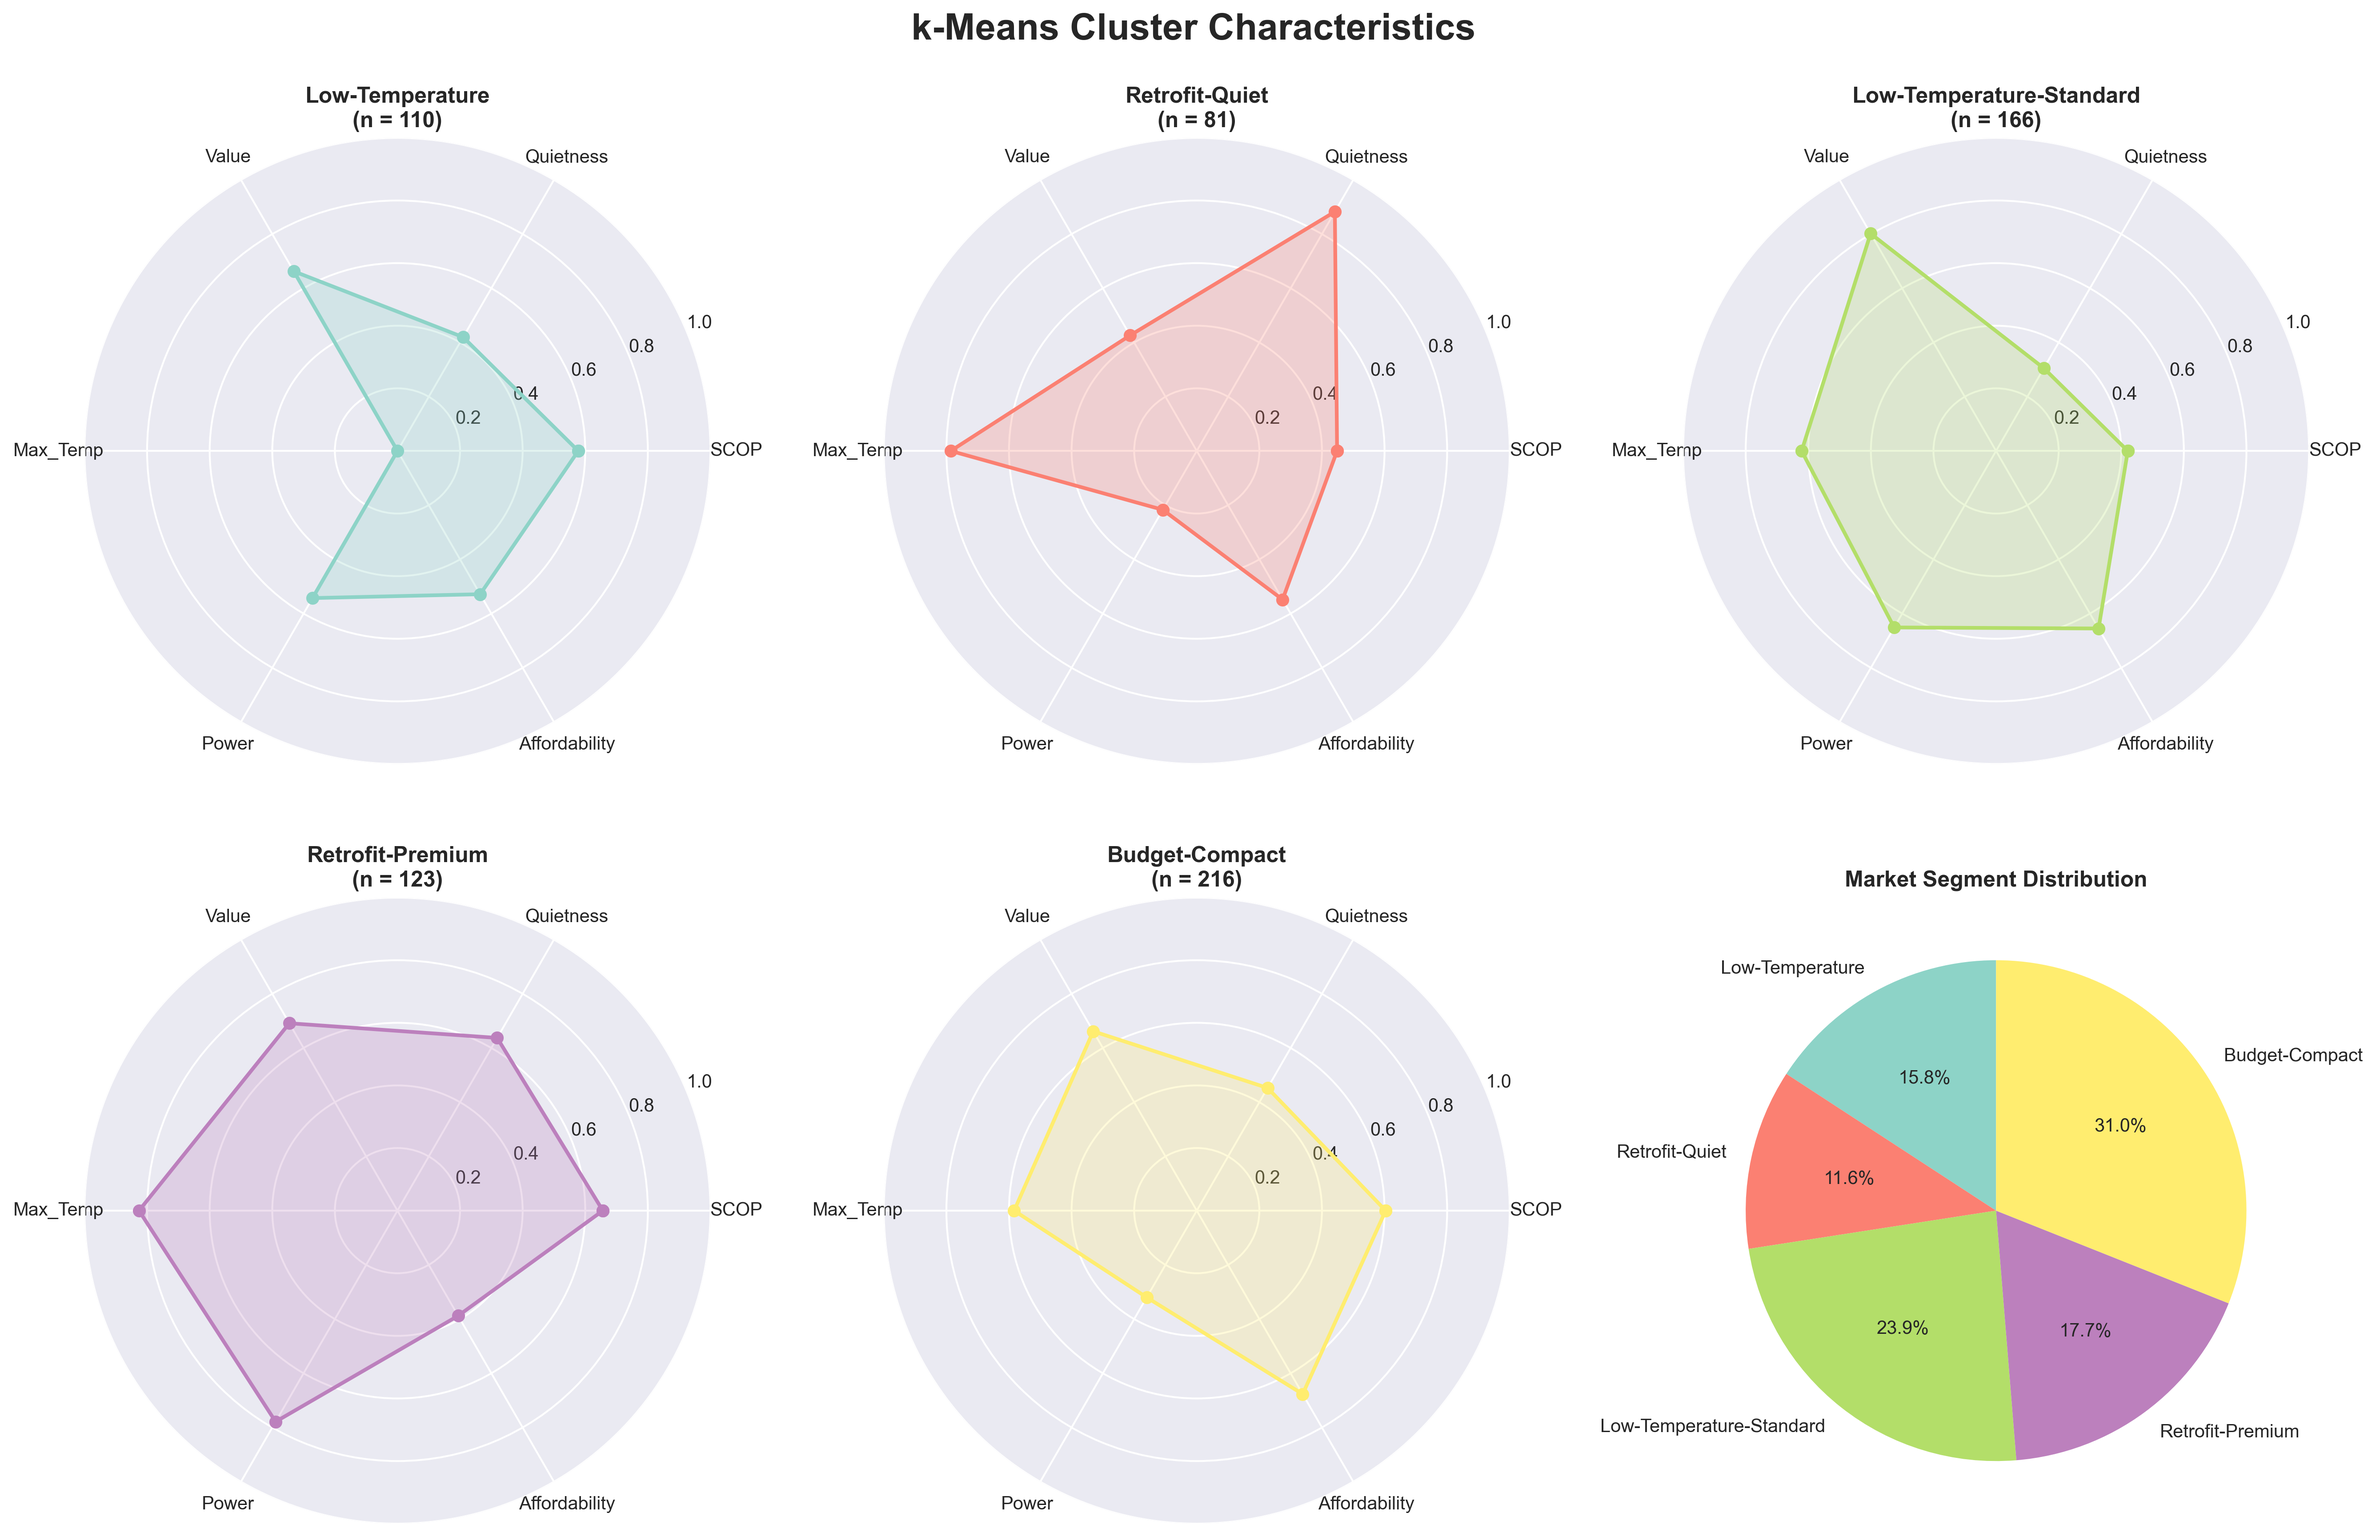
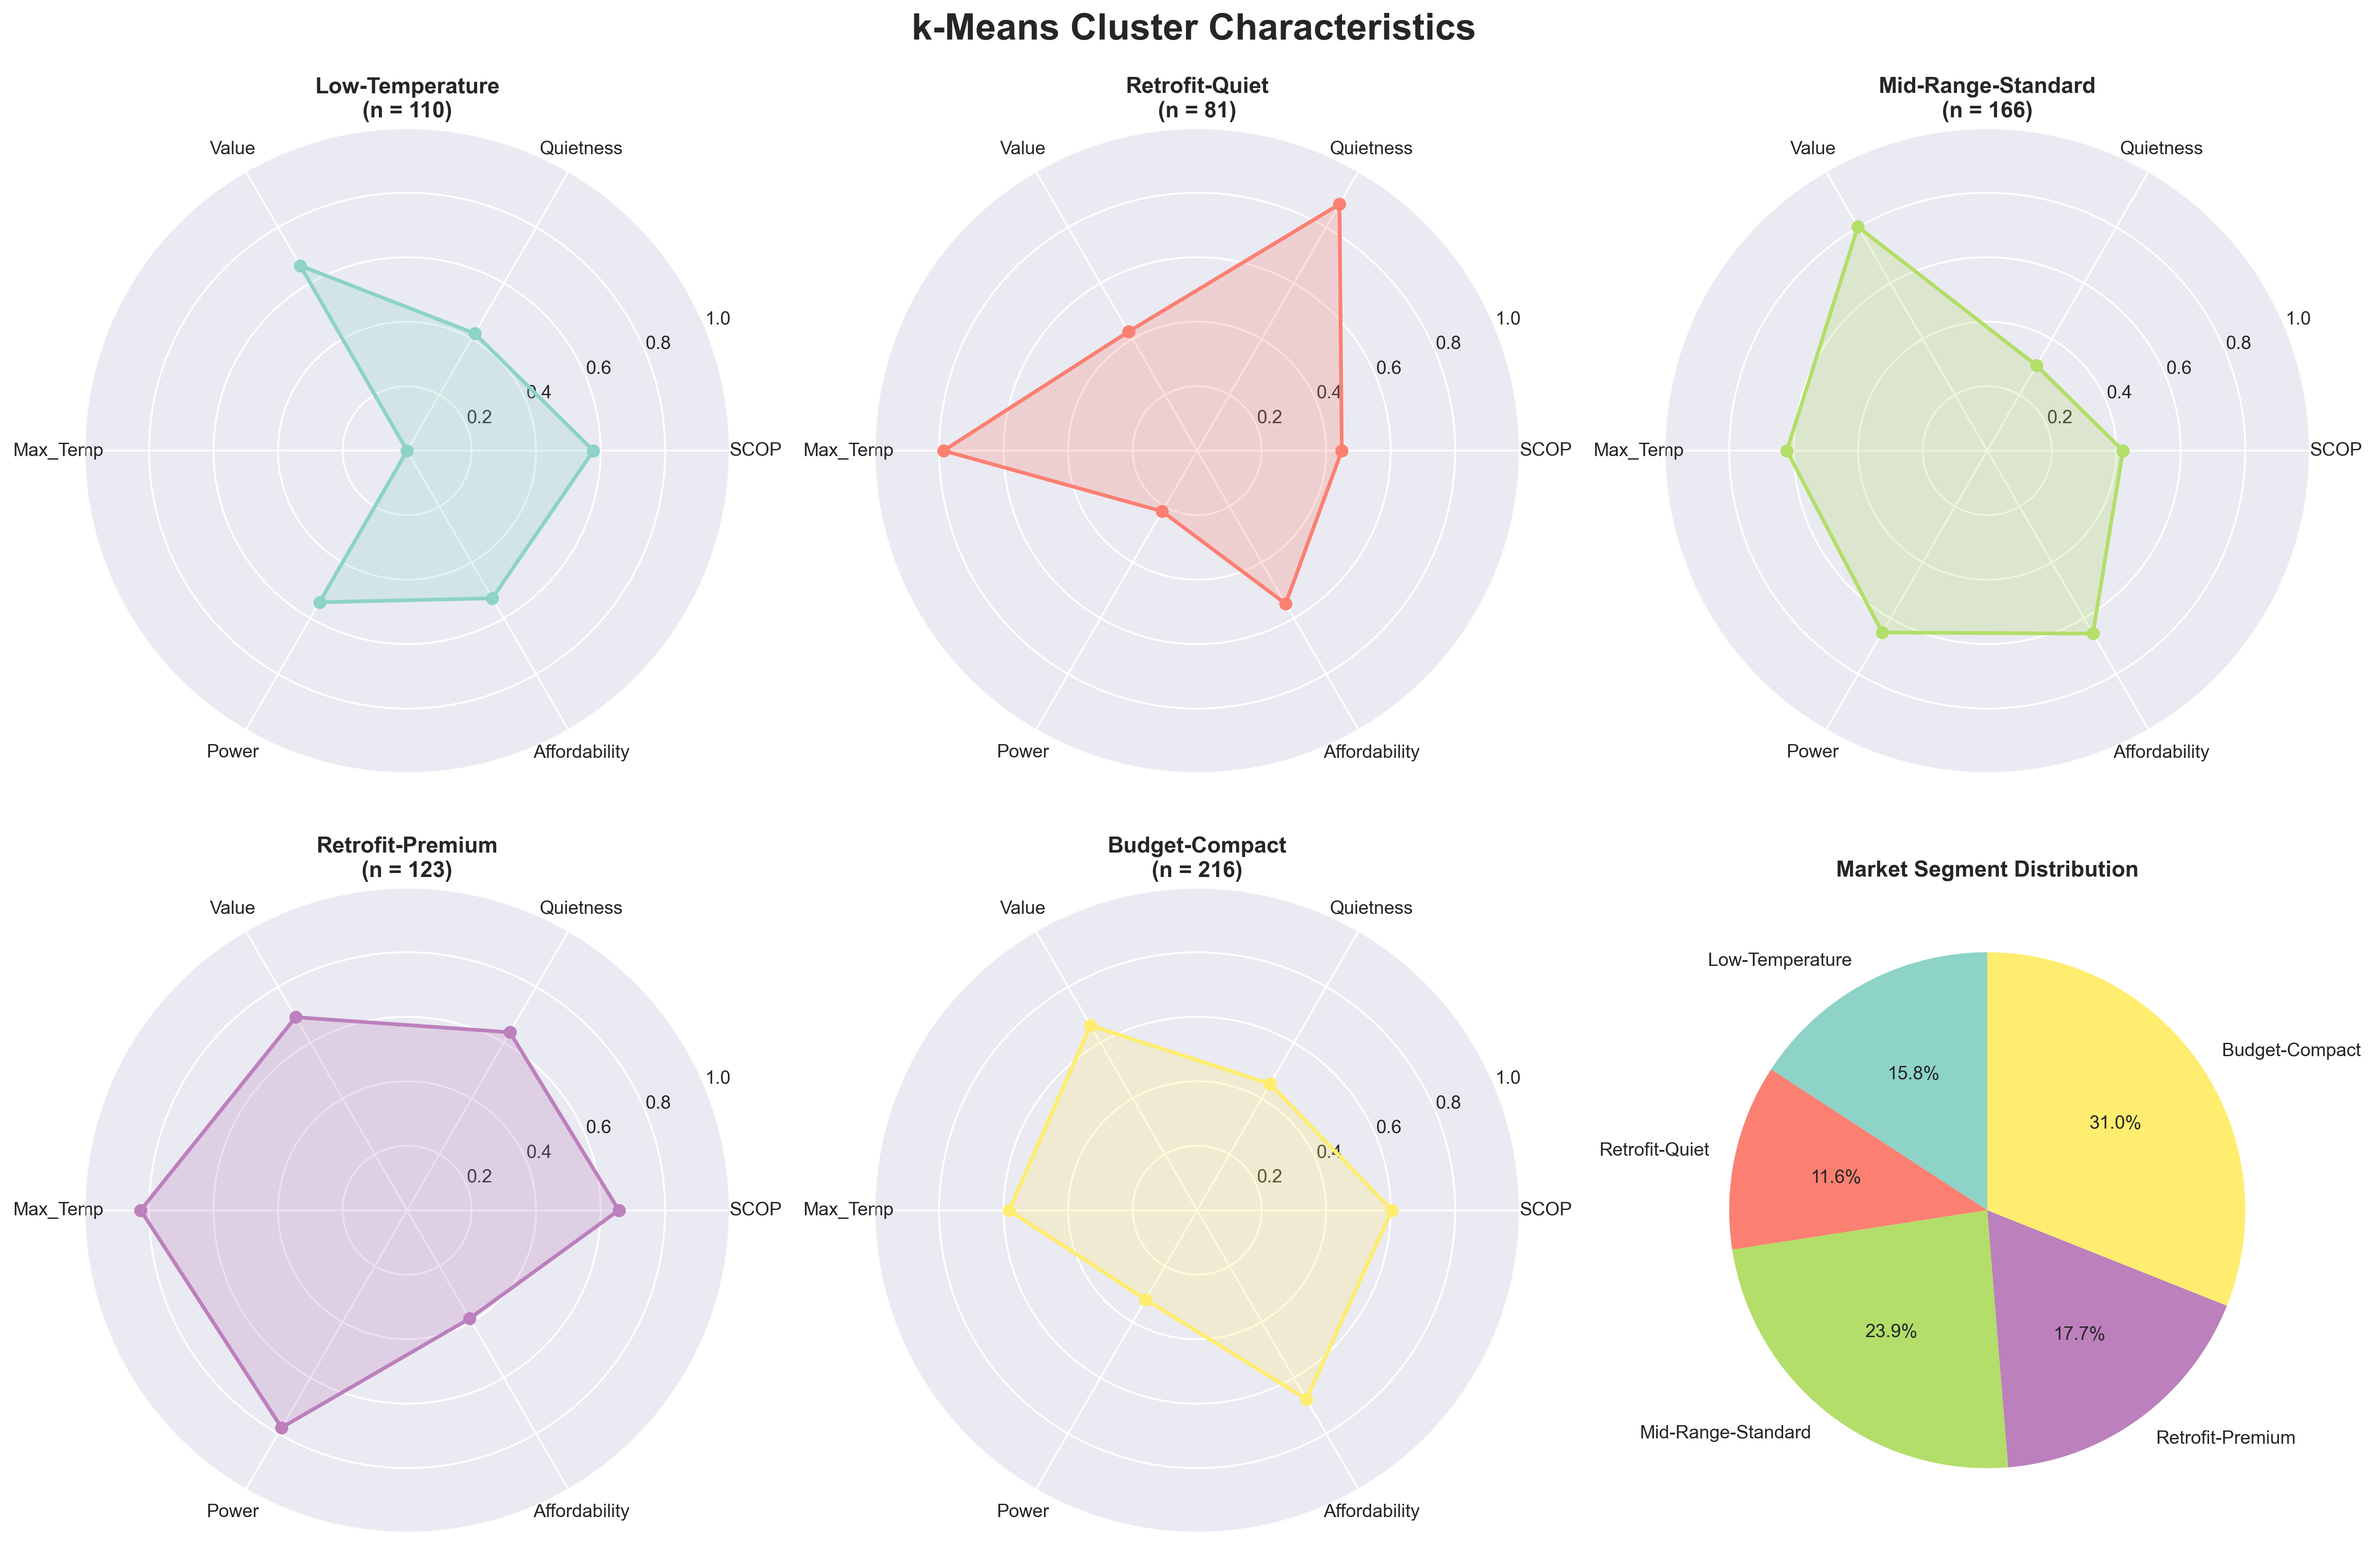
Update cluster analysis: Change 'Mid-Range' to 'Low-Temperature' in visualizations and add observation counts to plots

diff --git a/Pricescraper/6_analysis/cluster_market_personalities.py b/Pricescraper/6_analysis/cluster_market_personalities.py
@@ -318,7 +318,7 @@ def determine_cluster_archetype(profile, df_all):
     HIGH_THRESHOLD = 0.67
     
     # Categorize characteristics
-    price_cat = "Budget" if price_pct < LOW_THRESHOLD else ("Premium" if price_pct > HIGH_THRESHOLD else "Low-Temperature")
+    price_cat = "Budget" if price_pct < LOW_THRESHOLD else ("Premium" if price_pct > HIGH_THRESHOLD else "Mid-Range")
     efficiency_cat = "High-Efficiency" if scop_pct > HIGH_THRESHOLD else ("Standard" if scop_pct > LOW_THRESHOLD else "Basic")
     # Fix noise categorization: low noise_pct = quiet (below average noise), high noise_pct = noisy (above average noise)
     noise_cat = "Quiet" if noise_pct < LOW_THRESHOLD else ("Standard" if noise_pct < HIGH_THRESHOLD else "Noisy")
@@ -337,8 +337,8 @@ def determine_cluster_archetype(profile, df_all):
         primary_traits.append("Budget")
     elif price_cat == "Premium":
         primary_traits.append("Premium")
-    elif price_cat == "Low-Temperature" and len(primary_traits) == 0:
-        primary_traits.append("Low-Temperature")
+    elif price_cat == "Mid-Range" and len(primary_traits) == 0:
+        primary_traits.append("Mid-Range")
     
     # PRIORITY 3: Performance characteristics
     if efficiency_cat == "High-Efficiency":
@@ -389,10 +389,10 @@ def determine_cluster_archetype(profile, df_all):
             archetype = "Compact-Efficient"
         elif "Value" in primary_traits and "Efficient" in primary_traits:
             archetype = "Value-Efficient"
-        elif "Low-Temperature" in primary_traits and "Efficient" in primary_traits:
+        elif "Mid-Range" in primary_traits and "Efficient" in primary_traits:
             archetype = "Standard-Efficient"
-        elif "Low-Temperature" in primary_traits:
-            archetype = "Low-Temperature-Standard"
+        elif "Mid-Range" in primary_traits:
+            archetype = "Mid-Range-Standard"
         else:
             # Default to combining top 2 traits
             archetype = "-".join(primary_traits[:2])
@@ -457,13 +457,9 @@ def generate_buyer_persona(profile, cluster_name):
             "description": "Mainstream market seeking reliable performance with good efficiency at fair prices",
             "tags": ["mainstream residential", "balanced buyers", "standard homes", "practical choice", "middle market"]
         },
-        "Low-Temperature-Standard": {
+        "Mid-Range-Standard": {
             "description": "Average market segment seeking reliable, balanced performance across all metrics",
             "tags": ["mainstream market", "standard residential", "balanced requirements", "typical homeowners"]
-        },
-        "Low-Temperature": {
-            "description": "Heat pumps designed for low-temperature heating systems with standard performance characteristics",
-            "tags": ["low-temperature systems", "standard heating", "basic requirements", "general residential"]
         },
         "Standard": {
             "description": "Mainstream residential market seeking reliable, balanced performance",
@@ -494,6 +490,13 @@ def create_cluster_visualizations(df_clustered, X_scaled, feature_names, cluster
     
     n_clusters = df_clustered['Cluster'].nunique()
     
+    # Helper function to get display name for clusters
+    def get_display_name(cluster_name):
+        """Map cluster names to display names for plots"""
+        if cluster_name == "Mid-Range":
+            return "Low-Temperature"
+        return cluster_name
+    
     # 1. PCA Visualization
     plt.figure(figsize=(12, 10))
     
@@ -506,8 +509,9 @@ def create_cluster_visualizations(df_clustered, X_scaled, feature_names, cluster
     for i in range(n_clusters):
         mask = df_clustered['Cluster'] == i
         cluster_name = cluster_names.get(i, f"Cluster {i}")
+        display_name = get_display_name(cluster_name)
         plt.scatter(X_pca[mask, 0], X_pca[mask, 1], 
-                   c=[colors[i]], label=f"{cluster_name} (n={mask.sum()})", 
+                   c=[colors[i]], label=f"{display_name} (n={mask.sum()})", 
                    alpha=0.7, s=50)
     
     plt.xlabel(f'First Principal Component ({pca.explained_variance_ratio_[0]:.1%} variance)', fontsize=14)
@@ -543,8 +547,9 @@ def create_cluster_visualizations(df_clustered, X_scaled, feature_names, cluster
             mask = df_clustered['Cluster'] == i
             cluster_data.append(feature_data[mask])
             cluster_name = cluster_names.get(i, f"C{i}")
+            display_name = get_display_name(cluster_name)
             n_obs = mask.sum()
-            cluster_labels.append(f"{cluster_name}\n(n={n_obs})")
+            cluster_labels.append(f"{display_name}\n(n={n_obs})")
         
         bp = ax.boxplot(cluster_data, labels=cluster_labels, patch_artist=True)
         
@@ -572,8 +577,9 @@ def create_cluster_visualizations(df_clustered, X_scaled, feature_names, cluster
         cluster_labels_with_counts = []
         for i in range(n_clusters):
             cluster_name = cluster_names.get(i, f"C{i}")
+            display_name = get_display_name(cluster_name)
             n_obs = (df_clustered['Cluster'] == i).sum()
-            cluster_labels_with_counts.append(f"{cluster_name}\n(n={n_obs})")
+            cluster_labels_with_counts.append(f"{display_name}\n(n={n_obs})")
         
         temp_df = pd.DataFrame({
             'Value': feature_data,
@@ -587,8 +593,9 @@ def create_cluster_visualizations(df_clustered, X_scaled, feature_names, cluster
     color_palette = [colors[i] for i in range(n_clusters)]
     for i in range(n_clusters):
         cluster_name = cluster_names.get(i, f"C{i}")
+        display_name = get_display_name(cluster_name)
         n_obs = (df_clustered['Cluster'] == i).sum()
-        cluster_order.append(f"{cluster_name}\n(n={n_obs})")
+        cluster_order.append(f"{display_name}\n(n={n_obs})")
     
     axes_flat = axes.flatten()
     for idx, (feature_name, _) in enumerate(original_features.items()):
@@ -622,6 +629,7 @@ def create_cluster_visualizations(df_clustered, X_scaled, feature_names, cluster
         
         cluster_data = df_clustered[df_clustered['Cluster'] == cluster_id]
         cluster_name = cluster_names.get(cluster_id, f"Cluster {cluster_id}")
+        display_name = get_display_name(cluster_name)
         
         # Calculate normalized values
         values = []
@@ -672,7 +680,7 @@ def create_cluster_visualizations(df_clustered, X_scaled, feature_names, cluster
         ax.set_xticks(angles[:-1])
         ax.set_xticklabels(radar_features)
         ax.set_ylim(0, 1)
-        ax.set_title(f'{cluster_name}\n(n = {len(cluster_data)})', fontweight='bold')
+        ax.set_title(f'{display_name}\n(n = {len(cluster_data)})', fontweight='bold')
         ax.grid(True)
     
     # Add market segment pie chart in the bottom right cell
@@ -683,7 +691,7 @@ def create_cluster_visualizations(df_clustered, X_scaled, feature_names, cluster
         
         # Create pie chart for market segments
         cluster_sizes = df_clustered['Cluster'].value_counts().sort_index()
-        cluster_labels_pie = [cluster_names.get(i, f"Cluster {i}") for i in cluster_sizes.index]
+        cluster_labels_pie = [get_display_name(cluster_names.get(i, f"Cluster {i}")) for i in cluster_sizes.index]
         
         ax_market.pie(cluster_sizes.values, labels=cluster_labels_pie, autopct='%1.1f%%', 
                      colors=colors[:len(cluster_sizes)], startangle=90)
@@ -703,9 +711,10 @@ def create_cluster_visualizations(df_clustered, X_scaled, feature_names, cluster
     for i in range(n_clusters):
         mask = df_clustered['Cluster'] == i
         cluster_name = cluster_names.get(i, f"Cluster {i}")
+        display_name = get_display_name(cluster_name)
         plt.scatter(df_clustered[mask]['SCOP'], 
                    df_clustered[mask]['Price'], 
-                   c=[colors[i]], label=cluster_name, 
+                   c=[colors[i]], label=display_name, 
                    alpha=0.7, s=60)
     
     plt.xlabel('SCOP (Efficiency)', fontsize=12)
@@ -721,7 +730,7 @@ def create_cluster_visualizations(df_clustered, X_scaled, feature_names, cluster
     plt.figure(figsize=(12, 8))
     
     cluster_sizes = df_clustered['Cluster'].value_counts().sort_index()
-    cluster_labels_pie = [cluster_names.get(i, f"Cluster {i}") for i in cluster_sizes.index]
+    cluster_labels_pie = [get_display_name(cluster_names.get(i, f"Cluster {i}")) for i in cluster_sizes.index]
     
     plt.pie(cluster_sizes.values, labels=cluster_labels_pie, autopct='%1.1f%%', 
             colors=colors[:len(cluster_sizes)], startangle=90)
@@ -736,6 +745,13 @@ def create_cluster_visualizations(df_clustered, X_scaled, feature_names, cluster
 def create_marketing_analysis_report(df_clustered, cluster_names, figures_dir):
     """Create comprehensive marketing analysis report without configuration insights"""
     print(f"\nCreating marketing analysis report...")
+    
+    # Helper function to get display name for clusters
+    def get_display_name(cluster_name):
+        """Map cluster names to display names for reports"""
+        if cluster_name == "Mid-Range":
+            return "Low-Temperature"
+        return cluster_name
     
     report_path = figures_dir / "marketing_analysis_report.txt"
     
@@ -759,13 +775,14 @@ def create_marketing_analysis_report(df_clustered, cluster_names, figures_dir):
         for cluster_id in sorted(df_clustered['Cluster'].unique()):
             cluster_data = df_clustered[df_clustered['Cluster'] == cluster_id]
             cluster_name = cluster_names[cluster_id]
+            display_name = get_display_name(cluster_name)
             
             # Basic metrics
             market_share = len(cluster_data) / len(df_clustered) * 100
             value_share = cluster_data['Price'].sum() / total_value * 100
             avg_price = cluster_data['Price'].mean()
             
-            f.write(f"{cluster_id + 1}. {cluster_name.upper()}\n")
+            f.write(f"{cluster_id + 1}. {display_name.upper()}\n")
             f.write(f"Market Share: {market_share:.1f}% ({len(cluster_data)} products)\n")
             f.write(f"Value Share: {value_share:.1f}% of total market value\n")
             f.write(f"Average Price: {avg_price:,.0f} EUR\n")
@@ -810,7 +827,7 @@ def create_marketing_analysis_report(df_clustered, cluster_names, figures_dir):
         f.write("-"*27 + "\n")
         
         # Identify largest segments
-        segment_sizes = [(cluster_names[cid], len(df_clustered[df_clustered['Cluster'] == cid])) 
+        segment_sizes = [(get_display_name(cluster_names[cid]), len(df_clustered[df_clustered['Cluster'] == cid])) 
                         for cid in df_clustered['Cluster'].unique()]
         segment_sizes.sort(key=lambda x: x[1], reverse=True)
         
@@ -964,11 +981,19 @@ def main():
     print("="*80)
     print(f"Identified {selected_k} distinct market personalities:")
     
+    # Helper function to get display name for clusters
+    def get_display_name(cluster_name):
+        """Map cluster names to display names for summary"""
+        if cluster_name == "Mid-Range":
+            return "Low-Temperature"
+        return cluster_name
+    
     # Analyze market characteristics
     total_market_value = df_final['Price'].sum()
     
     for cluster_id in sorted(cluster_names_final.keys()):
         name = cluster_names_final[cluster_id]
+        display_name = get_display_name(name)
         cluster_data = df_final[df_final['Cluster'] == cluster_id]
         size = len(cluster_data)
         market_share = size / len(df_final) * 100
@@ -976,7 +1001,7 @@ def main():
         value_share = cluster_value / total_market_value * 100
         avg_price = cluster_data['Price'].mean()
         
-        print(f"\n{cluster_id + 1}. {name.upper()}")
+        print(f"\n{cluster_id + 1}. {display_name.upper()}")
         print(f"   Market Share: {market_share:.1f}% ({size} products)")
         print(f"   Value Share: {value_share:.1f}% of total market value")
         print(f"   Average Price: {avg_price:,.0f} EUR")
